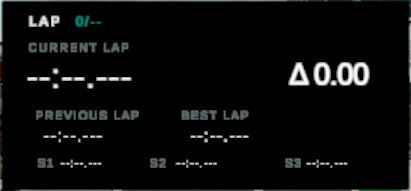
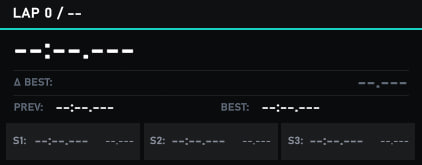
Update README and HUD screenshots for 1.0.70

diff --git a/README.md b/README.md
@@ -8,24 +8,25 @@
 Balance Mod is a full C# gameplay and race-management overhaul for CarX Drift Racing Online.
 It combines GT3 balancing, tire and fuel simulation, lap timing, live HUD systems, online race weekend logic, multiplayer sync, broadcast tools, and result export in one modular project.
 
+This page reflects Balance Mod version **1.0.70**.
+
 The current version of the mod is no longer just a car-balance experiment. It is now a full race-control layer built on top of CarX + Kino/KSL, with its own session flow, track logic, telemetry processing, HUD stack, and external integration pipeline.
 
 ## Key Features
 
 ### 1. GT3 Balance of Performance Presets
-The mod includes a dedicated GT3 configuration system with embedded car data and runtime application of:
+The mod includes a dedicated vehicle configuration system centered on GT3, with embedded car data and runtime application of:
 
 * mass and weight distribution
 * center-of-mass height
 * gearbox ratios and final drive
 * turbo pressure
 * torque / RPM / rev limiter values
+* selectable engine maps
 * aerodynamic drag and downforce parameters
 * per-car fuel config and startup values
-* engine map's
 
-The current pack contains **18 GT3 car configs**, including cars such as:
-BMW M4 GT3, Porsche 992 GT3 R, Ferrari 296 GT3, Lamborghini Huracan GT3 EVO2, Aston Martin Vantage GT3, Audi R8 LMS GT3, Nissan GT-R GT3, McLaren 720S GT3 EVO, Lexus RC F GT3, Acura NSX GT3 EVO, Mercedes-AMG GT3, Corvette Z06 GT3 and more.
+The current pack contains **14 active vehicle configs**: 12 GT3-oriented presets plus VRL V8 Supercar and LMH. The GT3 selection includes BMW M4 GT3, BMW M3 GT3 Touring, Porsche 911 GT3 R (992), Ferrari 296 GT3, Lamborghini Huracan GT3 EVO2, Aston Martin Vantage GT3, Audi R8 LMS GT3, McLaren 720S GT3 EVO, Mercedes-AMG GT3, Corvette Z06 GT3, Ford Mustang GT3 and Toyota GR GT3.
 
 ### 2. Tire System
 Balance Mod has its own runtime tire model layer with:
@@ -34,10 +35,9 @@ Balance Mod has its own runtime tire model layer with:
 * wear accumulation
 * grip loss from wear, temperature and pressure
 * pressure calculation based on temperature
+* dynamic camber influence on grip, temperature and wear
 * hot/cold tire install logic
 * tire stint tracking for HUD and race logic
-* dynamic camber grip
-
 
 Pit service can install fresh tires, and session transitions now automatically mount fresh tires when moving:
 
@@ -119,6 +119,7 @@ The mod includes race-control systems beyond vanilla CarX behavior:
 * cut detection and off-track monitoring
 * track-limits excursion evaluation
 * yellow / white / blue flag logic
+* host-controlled red flag
 * drive-through penalties
 * black-flag state
 * local HUD indicators for cuts and penalties
@@ -129,8 +130,11 @@ Balance Mod has several runtime HUD layers:
 * Lap Timing HUD
 * Broadcast standings HUD
 * Fuel status overlay
+* Radar overlay
 * Flag overlay
 * Cut / penalty overlay
+* Pit strategy and pit service overlays
+* Mandatory pit-stop and pit-lane overlays
 * Finish results overlay
 
 Broadcast standings support multiple display modes:
@@ -141,8 +145,10 @@ Broadcast standings support multiple display modes:
 
 The broadcast HUD is fed by a dedicated snapshot builder instead of direct UI polling, which keeps the UI cleaner and easier to extend.
 
-![Session Setup UI](https://github.com/kido4sv/Balance-Mod-DRO/blob/main/session_setup.png?raw=true)
-![Lap Timing HUD](https://github.com/kido4sv/Balance-Mod-DRO/blob/main/lap_timing.png?raw=true)
+The selected UI language is also applied to the gameplay HUDs, including timing, fuel, radar, broadcast standings, race results, traction control, pit strategy and pit-service displays.
+
+![Session Setup UI](session_setup.png)
+![Lap Timing HUD](lap_timing.png)
 
 ## Multiplayer Sync and Networking
 
@@ -190,7 +196,7 @@ This makes the mod useful not only as gameplay logic, but also as backend infras
 
 ## Track and Racing-Line Support
 
-The project includes embedded fast-lane data for **13 tracks**, used by:
+The project includes embedded fast-lane data for **17 tracks**, used by:
 
 * lap delta
 * track progress logic
@@ -211,6 +217,8 @@ Besides race features, the mod still includes a large amount of tuning and debug
 * aero tools
 * final drive tuning
 * tire pressure controls
+* traction-control settings and keybinds
+* brake-balance and engine-map keybinds
 * debug visualizers
 * performance sampling hooks
 
@@ -231,12 +239,15 @@ The current project state is more focused and production-ready than older intern
 * KEF Stars integration
 * smoother player gap / interval timing
 * automatic fresh-tire install between sessions
+* localized gameplay HUDs
+* traction-control, engine-map and brake-balance controls
+* dynamic camber effects on tire behavior
+* assigned pit-box guidance and pit-service validation
 
 ### Simplified / Removed / Streamlined
 * fuel menu was reduced to essentials
 * noisy debug spam for fuel and lap-delta release builds was removed
 * default instant pit / tire reset keybind clutter was reduced to a single full pitstop bind
-* older non-core preset directions like LMDH / Kart focus were removed from the current public feature set so the mod can stay focused on the GT3 race package
 
 ## Tech Stack
 
@@ -251,8 +262,8 @@ The current project state is more focused and production-ready than older intern
 
 1. Install **KSL**: [https://github.com/trbflxr/ksl](https://github.com/trbflxr/ksl)
 2. Install **Kino**: [https://github.com/trbflxr/kino](https://github.com/trbflxr/kino)
-3. Build or download the mod package
-4. Place the compiled mod into:
+3. Build or download `BalanceMod.ksm`
+4. Place `BalanceMod.ksm` into:
 
 ```text
 ...\CarX Drift Racing Online\kino\mods
